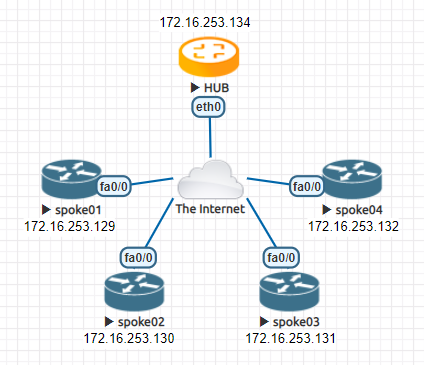
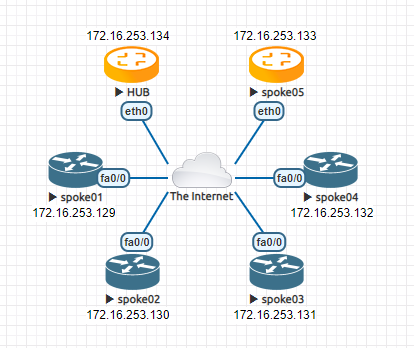
dmvpn: blueprint: add spoke05 as VyOS device

diff --git a/docs/appendix/examples/dmvpn.rst b/docs/appendix/examples/dmvpn.rst
@@ -121,3 +121,53 @@ spoke01
   interface FastEthernet0/0
    ip address dhcp
    duplex half
+
+
+spoke05
+-------
+
+VyOS can also run in DMVPN spoke mode.
+
+.. code-block:: none
+
+  set interfaces ethernet eth0 address 'dhcp'
+
+  set interfaces tunnel tun100 address '172.16.253.133/29'
+  set interfaces tunnel tun100 dhcp-interface 'eth0'
+  set interfaces tunnel tun100 encapsulation 'gre'
+  set interfaces tunnel tun100 multicast 'enable'
+  set interfaces tunnel tun100 parameters ip key '1'
+
+  set protocols nhrp tunnel tun100 cisco-authentication 'secret'
+  set protocols nhrp tunnel tun100 holding-time '300'
+  set protocols nhrp tunnel tun100 map 172.16.253.134/29 nbma-address '92.0.2.1'
+  set protocols nhrp tunnel tun100 map 172.16.253.134/29 register
+  set protocols nhrp tunnel tun100 multicast 'dynamic'
+
+  set vpn ipsec esp-group ESP-HUB compression 'disable'
+  set vpn ipsec esp-group ESP-HUB lifetime '1800'
+  set vpn ipsec esp-group ESP-HUB mode 'tunnel'
+  set vpn ipsec esp-group ESP-HUB pfs 'dh-group2'
+  set vpn ipsec esp-group ESP-HUB proposal 1 encryption 'aes256'
+  set vpn ipsec esp-group ESP-HUB proposal 1 hash 'sha1'
+  set vpn ipsec esp-group ESP-HUB proposal 2 encryption '3des'
+  set vpn ipsec esp-group ESP-HUB proposal 2 hash 'md5'
+  set vpn ipsec ike-group IKE-HUB close-action 'none'
+  set vpn ipsec ike-group IKE-HUB ikev2-reauth 'no'
+  set vpn ipsec ike-group IKE-HUB key-exchange 'ikev1'
+  set vpn ipsec ike-group IKE-HUB lifetime '3600'
+  set vpn ipsec ike-group IKE-HUB proposal 1 dh-group '2'
+  set vpn ipsec ike-group IKE-HUB proposal 1 encryption 'aes256'
+  set vpn ipsec ike-group IKE-HUB proposal 1 hash 'sha1'
+  set vpn ipsec ike-group IKE-HUB proposal 2 dh-group '2'
+  set vpn ipsec ike-group IKE-HUB proposal 2 encryption 'aes128'
+  set vpn ipsec ike-group IKE-HUB proposal 2 hash 'sha1'
+
+  set vpn ipsec ipsec-interfaces interface 'eth0'
+
+  set vpn ipsec profile NHRPVPN authentication mode 'pre-shared-secret'
+  set vpn ipsec profile NHRPVPN authentication pre-shared-secret 'secret'
+  set vpn ipsec profile NHRPVPN bind tunnel 'tun100'
+  set vpn ipsec profile NHRPVPN esp-group 'ESP-HUB'
+  set vpn ipsec profile NHRPVPN ike-group 'IKE-HUB'
+
